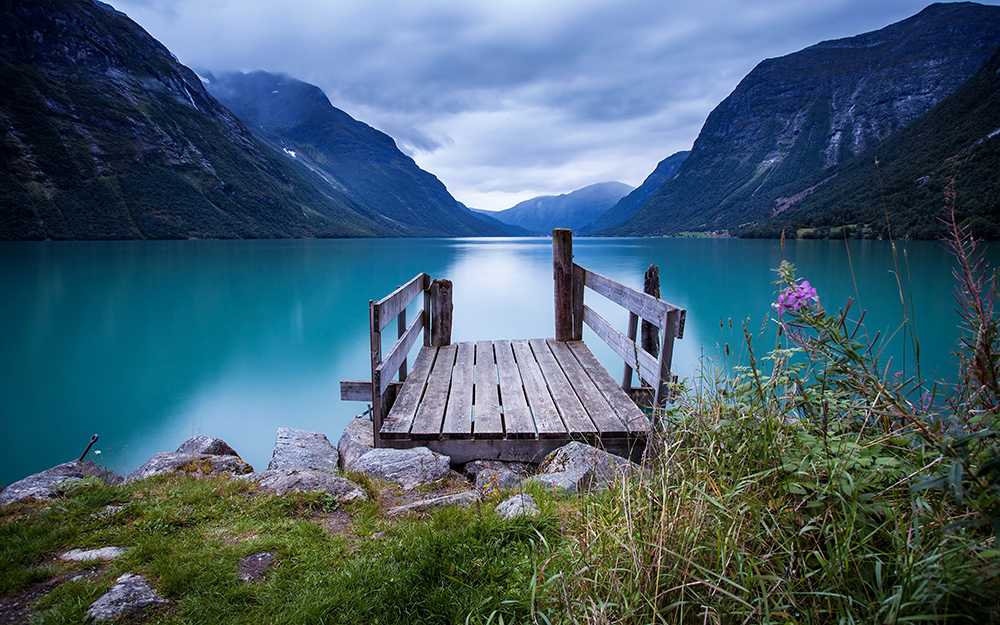
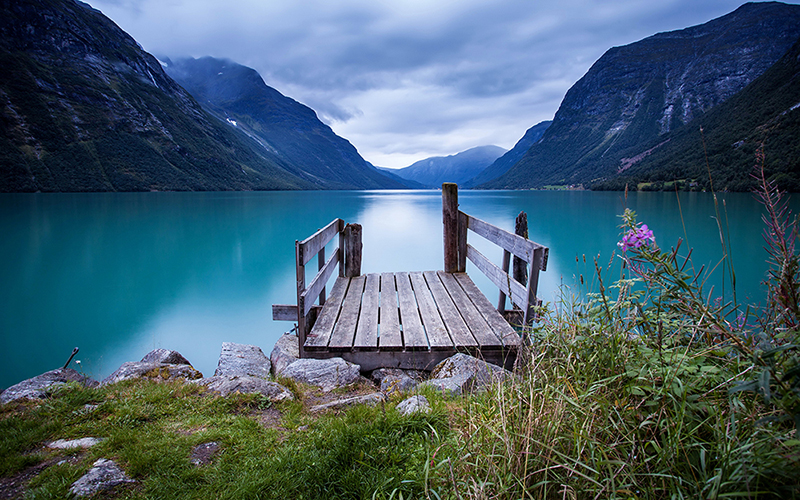
Нанесение водяного знака на лету

diff --git a/index.php b/index.php
@@ -276,7 +276,7 @@ $watermarker2 = new Watermarker($watermark2);
 <body>
 
 <!-- Отображаем изображение с текстом в качестве водяного знака -->
-<img src="<?= $watermarker->apply("image.jpg")->toBase64() ?>" alt="Изображение с текстом"/>
+<img src="<?= $watermarker->apply("zerkalo-ozera.jpg")->toBase64() ?>" alt="Изображение с текстом"/>
 
 <!-- Отображаем изображение с водяным знаком -->
 <img src="<?= $watermarker2->apply("image.jpg")->toBase64() ?>" alt="Изображение с водяным знаком"/>
